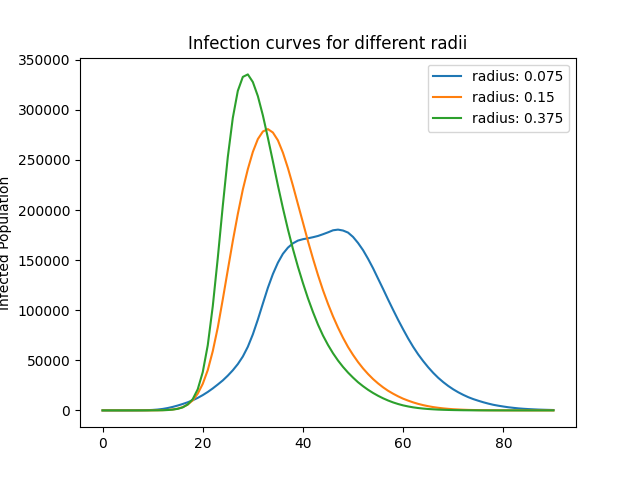
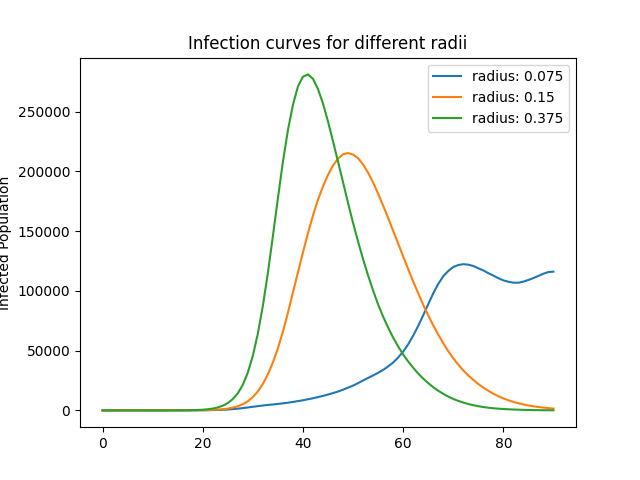
Plots and gifs added post R_0 change

diff --git a/python_examples/luxembourg_example/luxembourg_voronoi_log.py b/python_examples/luxembourg_example/luxembourg_voronoi_log.py
@@ -356,7 +356,7 @@ lux = df.loc[df['ADMIN'] == 'Luxembourg'].geometry.to_list()
 # Read in the data from simulation output
 filename = os.path.join(os.path.dirname(__file__),
                         "simulation_outputs/large_csv",
-                        "output_0.075.csv")
+                        "output_luxembourg.csv")
 df_old = pd.read_csv(filename)
 df = df_old.groupby(
     ['time', 'cell', 'location_x', 'location_y'], as_index=False).sum()
